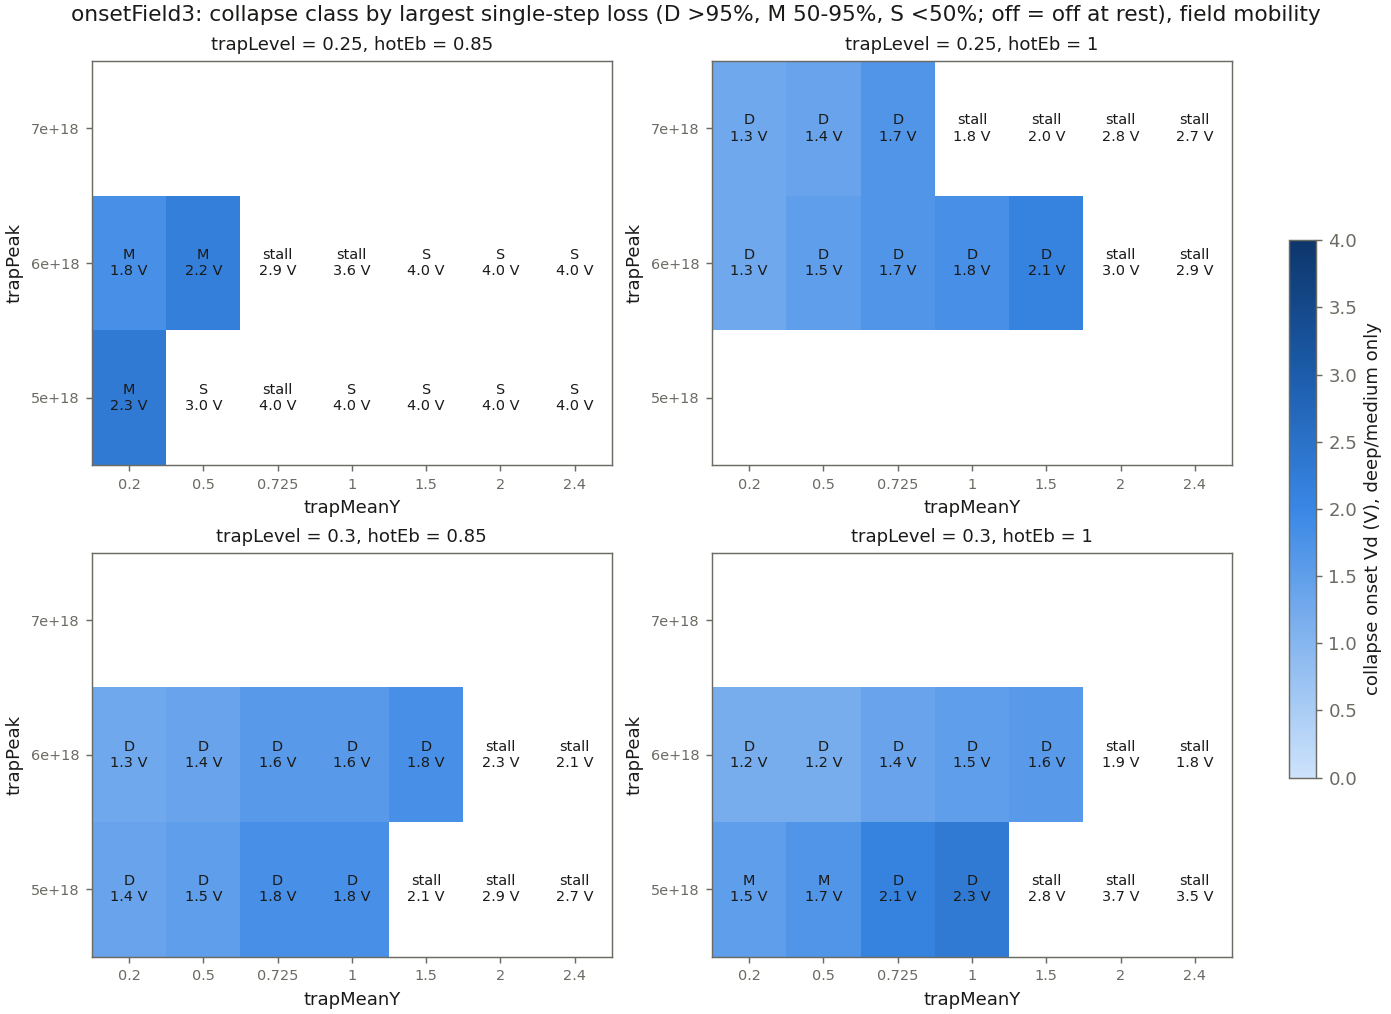
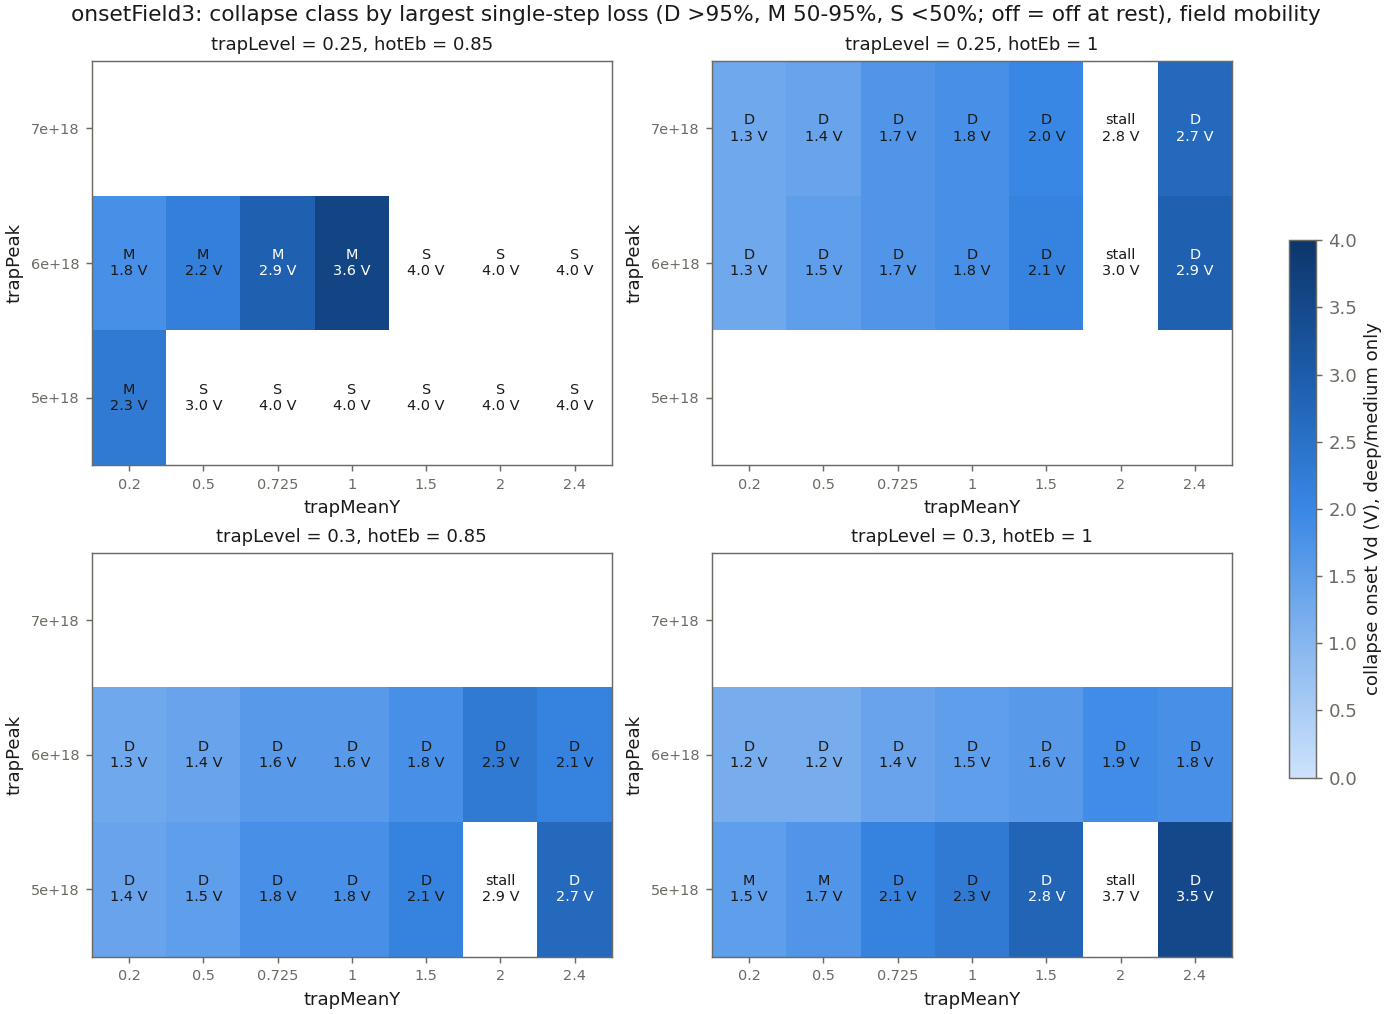
Round-3 Te-ramp rescue (job 44452288): 15/19 resolved; latest deep collapse 3.5 V at y=2.4 um
Claude-Session: https://claude.ai/code/session_01T8r4Sbc8W7NUQPpahQmti5

diff --git a/CLAUDE.md b/CLAUDE.md
@@ -260,7 +260,7 @@ Round 2 (cancelled job 44363616 at Ian's request, **resubmitted 2026-10-02 as jo
 
 Round 3: job 44435511, `pulsedIV_onsetField3.slurm` / `params_onsetField3.txt` (`trapPeak|trapLevel|hotTau|hotEb|trapMeanY`), `results/20261002_onsetField3/`: 8 sets (round-2 best at 0.30 eV, plus 0.25 eV with 5-7e18 / `hotTau` 1-1.5e-14) × `trapMeanY` {0.2, 0.5, 0.725, 1.0, 1.5, 2.0, 2.4} µm, + reference. Analyze: `python3 analyze_onset.py results/20261002_onsetField3 onsetField3 trapLevel hotEb trapMeanY trapPeak` (the 8 sets are unique in level × hotEb × trapPeak).
 
-**Round 3 result** (57/57 finished, 0 crashes, but **19 stalled**: `PULSED GAVE UP` at 1.8-4.0 V, mostly at full current, i.e. the runaway continuation can't follow (§10.5); 9 of them at ≥ 2.7 V, so the true latest onset may be later than 2.3 V; `figures/onsetField3.png`): deep 24, medium 5, shallow 8, stalled 19. **Retry** (job 44443669, `dampValue` 0.02, `retryDepth` 7, solver-only): resolved none. 18/19 stopped at exactly the same Vd (one 0.1 V earlier), unable to step even 0.8 mV past it from full current (153-179 mA/mm), so these are discontinuous jumps at the runaway, not step-size failures. Their collapse voltage is the stall voltage to within 0.1 V, but depth is unknown. **Latest deep collapse 2.3 V**: 0.30 eV / 5e18 / `hotTau` 1e-14 / `hotEb` 1.0 at **y = 1.0 µm**, 99.4% in one step from 166 mA/mm (≈ trap-free, ~170 mA/mm), i.e. the device runs normally up to the collapse. Runner-up: 0.25 eV / 6e18 / 1.5e-14 / 1.0 at y = 1.5 µm, deep at 2.1 V from 164 mA/mm. Medium 2.3 V (0.25 / 5e18 / 1e-14 / 0.85 at y 0.2, 65%).
+**Round 3 result** (57/57 finished, 0 crashes, but **19 stalled**: `PULSED GAVE UP` at 1.8-4.0 V, mostly at full current, i.e. the runaway continuation can't follow (§10.5); 9 of them at ≥ 2.7 V, so the true latest onset may be later than 2.3 V; `figures/onsetField3.png`): deep 24, medium 5, shallow 8, stalled 19. **Retry** (job 44443669, `dampValue` 0.02, `retryDepth` 7, solver-only): resolved none. 18/19 stopped at exactly the same Vd (one 0.1 V earlier), unable to step even 0.8 mV past it from full current (153-179 mA/mm), so these are discontinuous jumps at the runaway, not step-size failures. Their collapse voltage is the stall voltage to within 0.1 V, but depth is unknown. **Te-ramp rescue** (job 44452288, new `pulsedIV.tcl` fallback, original solver settings): 15/19 rescued, 4 gave up again (all at y = 2.0 µm, 2.8-3.7 V). Re-scored: deep 36, medium 7, shallow 9, stalled 4. **Latest deep collapse now 3.5 V**: 0.30 eV / 5e18 / `hotTau` 1e-14 / `hotEb` 1.0 at **y = 2.4 µm**, 177 mA/mm at 3.4 V (98.5% of trap-free) → 0.0018 mA/mm at 3.5 V (~1e5× in one step), then a slow creep to 0.0023 by 4.0 V, the measured collapse-then-creep shape. Latest medium 3.6 V (0.25 / 6e18 / 1e-14 / 0.85 at y 1.0, 91%). For the best set, onset vs y: 1.5, 1.7, 2.1, 2.3, 2.8, (stall 3.7), 3.5 V at y 0.2-2.4 µm. **Latest deep collapse 2.3 V**: 0.30 eV / 5e18 / `hotTau` 1e-14 / `hotEb` 1.0 at **y = 1.0 µm**, 99.4% in one step from 166 mA/mm (≈ trap-free, ~170 mA/mm), i.e. the device runs normally up to the collapse. Runner-up: 0.25 eV / 6e18 / 1.5e-14 / 1.0 at y = 1.5 µm, deep at 2.1 V from 164 mA/mm. Medium 2.3 V (0.25 / 5e18 / 1e-14 / 0.85 at y 0.2, 65%).
 - **Position has an optimum:** for most sets the onset rises from y = 0.2 to ~1.0-1.5 µm (e.g. 0.30/1.0/5e18: 1.5 → 1.7 → 2.1 → 2.3 V at y 0.2/0.5/0.725/1.0), then the collapse turns shallow at y ≥ 1.5-2.0 (traps too far from the hot spot to run away).
 - Pre-collapse current: the best late collapses start from 150-166 mA/mm (near trap-free); some deep ones start from an already-sagged current (e.g. 0.30/0.85/5e18 at y 0.725: 8 mA/mm), so they are less clean.
 
@@ -286,7 +286,7 @@ These were all found with constant mobility 600; field mobility collapses earlie
 - **Mesh** (static §10h, still applies): lateral spacing is 5 nm at the gate, 10-20 nm at the field plate, 25-40 nm from y ≈ 0.725 µm to the drain. Narrow traps there are unresolved (cones in the access region were mesh artifacts); access-region Gaussian results are qualitatively robust but onset can shift ~0.1 V and pre-collapse current halve on a 4 nm mesh. Refine (`line y` at `trapMeanY`) before shape or TRIM work.
 - **Calibration covers saturation only** (Vds = 10 V); the low-Vd linear region where collapses occur is unvalidated, and gm above +0.5 V is not reproduced (§10.1). Off-state drain leakage isn't modelled.
 - **Not modelled:** self-heating (Temp is constant 300 K), dielectric fixed/interface charge by default (`surfCharge` lever exists, unset), dynamic surface or dielectric trapping (insulator traps are static, `insTrapSign`), non-local electron heating (Te is local-field).
-- **Numerics:** many late-onset devices (round 3: 19/56; position map: 11/65) stall at the runaway; the 2026-10-02 retry with `dampValue` 0.02 / `retryDepth` 7 moved none of them (can't step 0.8 mV past the stall from full current). It's a discontinuous jump that Vd continuation can't follow. They stop cleanly (`PULSED GAVE UP`) and are classed "stalled" (onset ≈ stall Vd, depth unknown). Resolving them would need a different approach (e.g. a transient/time-stepped capture at the stall bias, or continuation in another parameter); not tried.
+- **Numerics:** many late-onset devices (round 3: 19/56; position map: 11/65) stall at the runaway; the 2026-10-02 retry with `dampValue` 0.02 / `retryDepth` 7 moved none of them (can't step 0.8 mV past the stall from full current). It's a discontinuous jump that Vd continuation can't follow. They stop cleanly (`PULSED GAVE UP`) and are classed "stalled" (onset ≈ stall Vd, depth unknown). **Fixed 2026-10-02 by the Te-ramp fallback** in `pulsedIV.tcl` (`teRamp`, on by default; only runs where a point would otherwise give up): at the stall the plain solve at the new Vd converges, but the next solve after `UpdateTe` moves Te halfway (w 0.5) to target diverges; the fallback holds Vd and steps Te with adaptive w (0.1 start, halve on failure to `teRampMin` 0.002, ×1.5 on success), `CaptureTraps` after each, until Te is within 1% of target. Results up to the stall are byte-identical. Rescued 15/19 round-3 stalls and 9/11 position-map stalls; the 6 left (all near y = 2.0 µm) shrink w below 0.002 at full current, so a lower `teRampMin` may get them. A rescued point is driven closer to the fill-only steady state (Te within 1%) than a normal point (4 × w 0.5).
 
 ---
 

diff --git a/progress.md b/progress.md
@@ -989,3 +989,10 @@ Submitted **job 44441813** → `results/20261002_posMapLate/`. Polling every 5 m
 - 11/11 finished, 0 crashes/cores: **9 rescued**, 2 gave up again (y 2.0 µm at 11.25/15 nm depth, stalls at 2.9/2.8 V; the ramp step fell below its 0.002 floor at full current).
 - Position map now: deep 33, medium 10, shallow 15, off 5, stalled 2. **Surface traps collapse from 1.6 V (y 0.285 µm) to 3.0 V (y 1.75 µm), all deep**; 50/65 positions cut >10× by 3 V (was 41). Figures (`posMapLate_grid.png`, `posMapLate_onset.png`) and GIF regenerated.
 - Round-3 rescue (job 44452288): 15/19 done so far (15 rescued, 3 gave up), 4 still running.
+
+### Te-ramp rescue: round 3 done (job 44452288)
+- 19/19 finished, 0 crashes/cores/missing: **15 rescued**, 4 gave up again (all at y = 2.0 µm: 6e18/0.25/1.5e-14/1.0 at 3.0 V, 7e18/0.25/1e-14/1.0 at 2.8 V, 5e18/0.30/1.5e-14/0.85 at 2.9 V, 5e18/0.30/1e-14/1.0 at 3.7 V).
+- Round 3 re-scored: deep 36, medium 7, shallow 9, stalled 4 (was deep 24, medium 5, shallow 8, stalled 19).
+- **Latest deep collapse: 3.5 V** (was 2.3 V): 0.30 eV / 5e18 / hotTau 1e-14 / hotEb 1.0 at **y = 2.4 µm**. 177 mA/mm at 3.4 V (98.5% of trap-free 179.7) → 0.0018 mA/mm at 3.5 V (~1e5× in one step) → slow creep to 0.0023 by 4.0 V — the same collapse-then-creep shape as the measurement. Latest medium: 3.6 V (0.25 / 6e18 / 1e-14 / 0.85 at y 1.0, 91% step).
+- Best set's onset vs position: 1.5 / 1.7 / 2.1 / 2.3 / 2.8 / (stall 3.7) / 3.5 V at y 0.2 / 0.5 / 0.725 / 1.0 / 1.5 / 2.0 / 2.4 µm.
+- Remaining 6 stalls (4 here + 2 in the position map, all near y 2.0 µm): the ramp step hits its 0.002 floor at full current; a lower `teRampMin` is the next thing to try if they matter.
